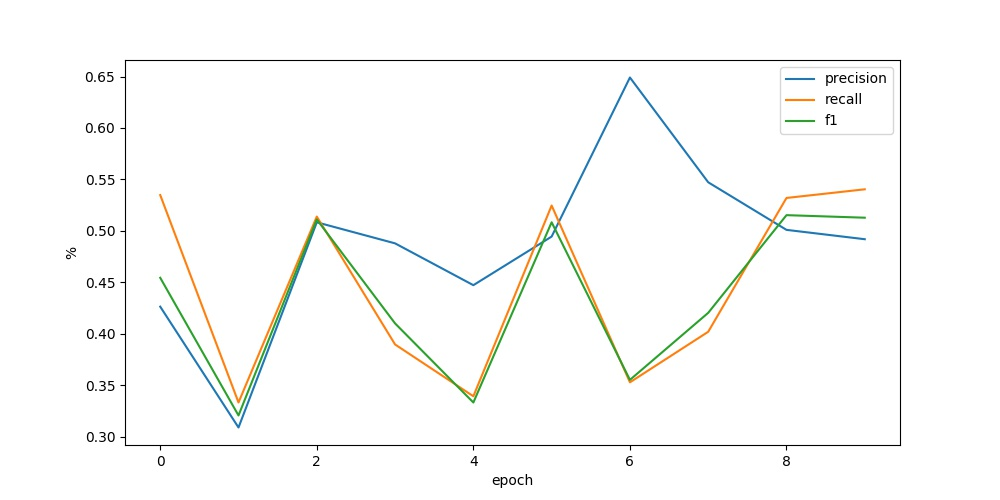
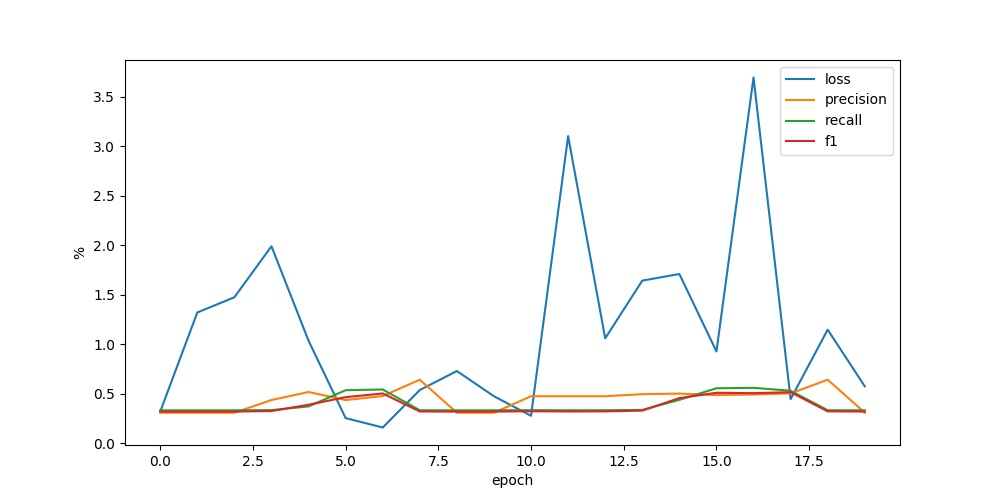
update

diff --git a/train.py b/train.py
@@ -5,8 +5,9 @@ from torch import nn
 from torch import optim
 from torch.utils.data import DataLoader
 import numpy as np
+import pickle
 from model import ConvTagger
-from utils import ToweDataset, sentence_clip, eval
+from utils import ToweDataset, sentence_clip, eval, show
 from visualizer import Visualizer
 
 config = yaml.load(open('config.yml'))
@@ -18,6 +19,10 @@ val_data_path = os.path.join(base_path, 'val.npz')
 log_path = os.path.join(base_path, 'log.yml')
 glove_path = os.path.join(base_path, 'glove.npy')
 plot_path = './plots/training.jpg'
+index2word_path = os.path.join(base_path, 'index2word.pickle')
+
+with open(index2word_path, 'rb') as handle:
+    index2word = pickle.load(handle)
 
 train_data = ToweDataset(train_data_path)
 val_data = ToweDataset(val_data_path)
@@ -57,7 +62,7 @@ criterion = nn.CrossEntropyLoss(ignore_index=-1)
 
 optimizer = optim.Adam(tagger.parameters(), lr=config['learning_rate'])
 
-visualizer = Visualizer(['epoch', 'precision', 'recall', 'f1'], plot_path)
+visualizer = Visualizer(['epoch', 'loss', 'precision', 'recall', 'f1'], plot_path)
 
 for epoch in range(config['num_epoches']):
     for i, data in enumerate(train_loader):
@@ -66,6 +71,8 @@ for epoch in range(config['num_epoches']):
         sentences = sentence_clip(sentences)
         targets = targets[:, 0:sentences.size(1)].contiguous()
         labels = labels[:, 0:sentences.size(1)].contiguous()
+        show(sentences[0], targets[0], labels[0])
+        raise ValueError('debug')
         logits = tagger(sentences, targets)
         logits = logits.view(-1, 3)
         labels = labels.view(-1)
@@ -76,6 +83,6 @@ for epoch in range(config['num_epoches']):
             print('[epoch %d] [step %d] [loss %.4f]' % (epoch, i, loss.item()))
     precision, recall, f1 = eval(tagger, val_loader)
     print('precision: %.4f\trecall: %.4f\tf1: %.4f' % (precision, recall, f1))
-    visualizer.add([epoch, precision, recall, f1])
+    visualizer.add([epoch, 0.4, precision, recall, f1])
 
 visualizer.plot()

diff --git a/model.py b/model.py
@@ -10,12 +10,12 @@ class ConvTagger(nn.Module):
         self.embed_size = embedding.embedding_dim
         self.embedding = embedding
         self.bio_embed_size = bio_embed_size
-        self.bio_embedding = nn.Embedding(2, bio_embed_size)
+        self.bio_embedding = nn.Embedding(3, bio_embed_size)
         self.kernel_sizes = kernel_sizes
         self.kernels = nn.ModuleList()
         for kernel_size in kernel_sizes:
             self.kernels.append(nn.Conv1d(
-                in_channels=self.embed_size + self.bio_embed_size,
+                in_channels=self.embed_size,
                 out_channels=kernel_num,
                 kernel_size=kernel_size
             ))
@@ -24,11 +24,11 @@ class ConvTagger(nn.Module):
         self.output_projection = nn.Linear(self.rep_size, 3)
 
     def forward(self, sentences, targets):
-        targets = targets.masked_fill(targets > 1, 1)
+        # targets = targets.masked_fill(targets > 1, 1)
         mask = sentences != PAD_INDEX
-        sentences = self.embedding(sentences)
+        sentences = self.embedding(sentences).transpose(1, 2)
         targets = self.bio_embedding(targets)
-        sentences = torch.cat((sentences, targets), dim=-1).transpose(1, 2)
+        # sentences = torch.cat((sentences, targets), dim=-1).transpose(1, 2)
         feature_map = []
         for kernel_size, conv in zip(self.kernel_sizes, self.kernels):
             left_pad = (kernel_size - 1) // 2

diff --git a/utils.py b/utils.py
@@ -136,3 +136,10 @@ def eval(tagger, data_loader):
     recall = recall_score(y_true=labels_collection, y_pred=preds_collection, labels=[0, 1, 2], average='macro')
     f1 = f1_score(y_true=labels_collection, y_pred=preds_collection, labels=[0, 1, 2], average='macro')
     return precision, recall, f1
+
+def show(sentence, target, label):
+    sentence, target, label = sentence.tolist(), target.tolist(), label.tolist()
+    length = min([x if label[x]==-1 else 1000 for x in range(len(label))])
+    print(sentence[0:length])
+    print(target[0:length])
+    print(label[0:length])
